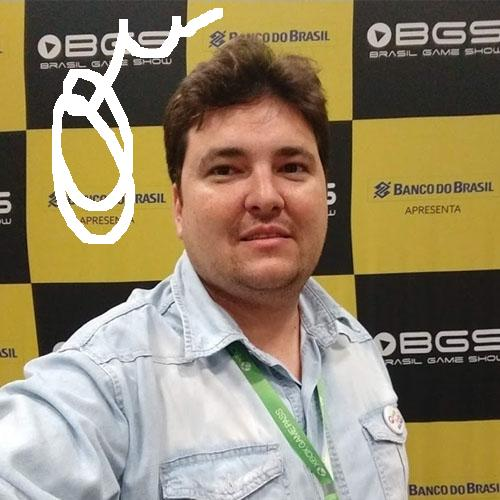
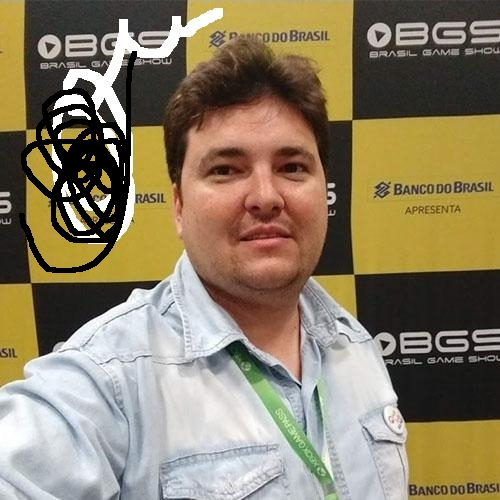
novo commit

Changed region(s): [[0.03, 0.09, 0.27, 0.57]]

diff --git a/index.html b/index.html
@@ -28,7 +28,7 @@
         <main class="container">
             <article class="super-card">
                 <section class="super-card-img">
-                    <img src="./img/danilofilitto2.jpg" alt="Foto do Danilo Filitto", title="Danilo Filitto">
+                    <img src="./img/danilofilitto3.jpg" alt="Foto do Danilo Filitto", title="Danilo Filitto">
                     <h2>Danilo Filitto</h2>
                 </section>
                 <section class="super-card-text">
